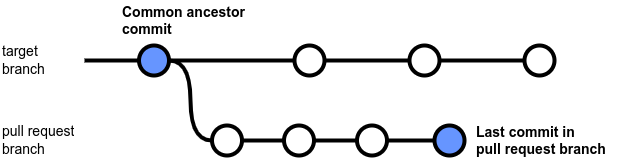
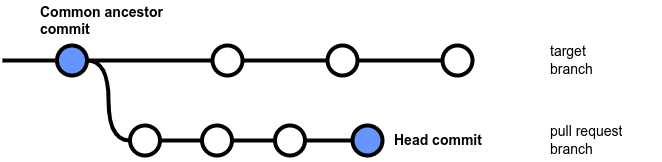
doc: Update diagrams for helping validate coverage setup

diff --git a/docs/index.md b/docs/index.md
@@ -374,7 +374,7 @@ Follow these instructions to validate that your coverage setup is working correc
     If Codacy doesn't display the coverage variation metric in pull requests (represented by `-`), make sure that you have uploaded coverage data for both:
 
     -   The common ancestor commit of the pull request branch and the target branch
-    -   The last commit in the pull request branch
+    -   The head commit of the pull request branch
 
     The following diagram highlights the commits that must have received coverage data for Codacy to display the coverage variation metric on a pull request:
 
